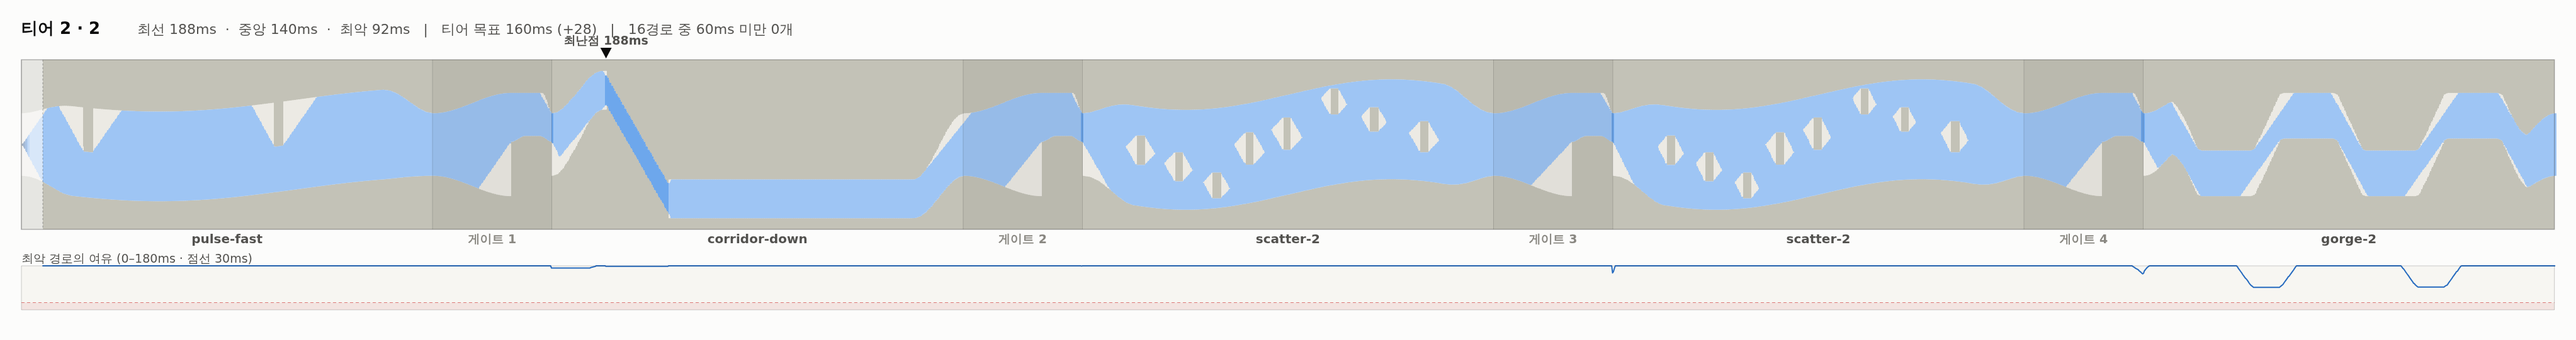
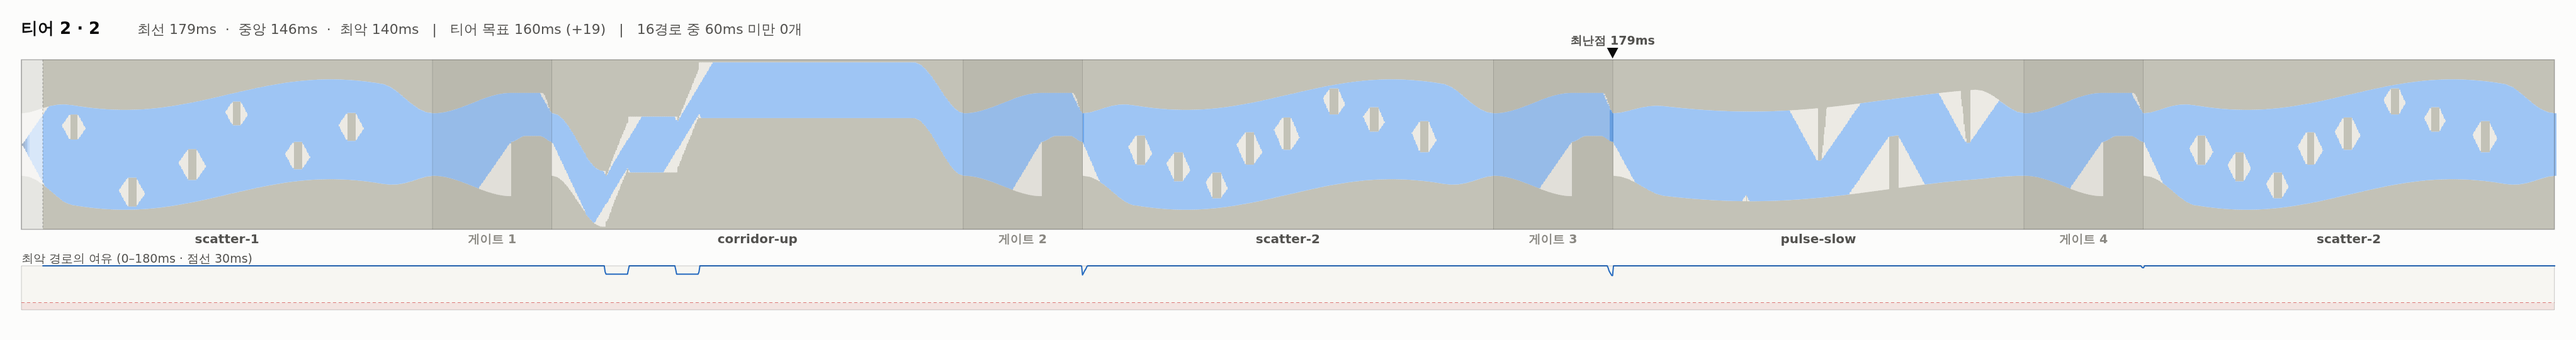
fix(wave-runner): 회랑을 끊어서 고친다 — 12개 섹터 전부가 모든 빌드에게 열렸다
0.5.3 의 `sector-fairness.ts` 가 남긴 마지막 빨간불이다. 회랑의 지속 경사 0.92 를
64단위 내리 달리면 그 기울기를 못 내는 기체의 뒤처짐이 통로 폭을 넘어, 조작과 무관하게
벽에 닿았다 — `corridor-up` 7개 · `corridor-down` 13개 빌드 봉쇄.

두 번 실패하고 고쳤다

- **경사를 낮추면 질문이 사라진다.** 0.92 → 0.5 로 낮추니 봉쇄는 0 이 됐지만 편향의
  유불리 뒤집힘이 사라졌다(하강 회랑인데 편향 + 가 +60ms 유리). 최소 여유도 224ms 로
  뛰어 "좁고 긴 통로" 성격까지 없어졌다. 되돌렸다
- **끊기만 하면 질문이 약해진다.** 세 토막 + 평탄 회복으로 봉쇄는 0 이 됐는데 하강
  회랑에서 편향 0 이 양쪽보다 유리해졌다(편− 189 · 편0 229 · 편+ 178). 토막이 짧아진
  만큼 경사가 하강 속도를 압박하지 못한 것이다
- **답은 끊고 나서 더 가파르게 하는 것이었다.** 두 토막 · 경사 1.3 · 폭 30 · 회복 55 에서
  편− 266 · 편0 254 · 편+ 185 로 뒤집힘이 제자리를 찾았다

  corridor-up    폭 22→30  경사 0.92→1.3  토막 1→2  봉쇄 7개→0   최소여유  2→69ms
  corridor-down  폭 20→30  경사 0.92→1.3  토막 1→2  봉쇄 13개→0  최소여유 19→62ms

  편향 뒤집힘이 +180/+160 → +158/+81 로 약해진 것은 대가다. 그전의 강한 수치는 상당
  부분 봉쇄에서 나온 것이라, 공정하게 만들면 줄어드는 것이 당연하다. 부호는 그대로다.

- 회복 구간은 리드인·꼬리와 같은 폭으로 넓힌다. 같은 폭으로 두면 치우친 기체가 평탄
  구간에서 벌을 받아 경사가 묻는 질문을 도로 상쇄한다

측정 방법에서 한 번 속을 뻔했다

도달 가능한 모든 빌드를 편향 부호로 묶어 평균을 비교하는 지표는 **교란된다** — 세 축의
합이 0 이라 편향 + 인 빌드는 속도가 낮고, 낮은 속도가 그 자체로 여유를 늘린다. 합이 0 인
조합 안에서 편향을 속도와 분리할 수 없다. 축을 격리하려면 합이 0 이 아닌 빌드로 재야
하고, `sector-probe.ts` 가 원래 그렇게 하고 있었다. 집계 지표를 믿었으면 정반대로
튜닝했을 것이다.

재큐레이션 결과

- 섹터 공정성 12개 **전부 통과**(회랑 2종 실패 → 0)
- 후보 시드 전 경로 통과(티어 3·4) 839/884 → **900/900**. 어떤 시드도 봉쇄된 경로가 없다
- ±2 곡선 199/185/151/135 → **196/181/158/132** (목표 200/180/150/130)
- ±3 곡선 194/159/156/131 → **183/169/154/129**, 티어 2↔3 간격 3ms → **15ms**
- 함정 0 · 코스 중복 0쌍 · 커버리지 12/12 · 네 티어 모두 완화 없음
[…]

diff --git a/projects/wave-runner/app/src/game/sectors.ts b/projects/wave-runner/app/src/game/sectors.ts
@@ -198,32 +198,48 @@ export interface CorridorSpec {
   grade: number;
   /** 경사 구간에서 오르내리는 총 높이 */
   rise: number;
+  /** 경사를 몇 토막으로 끊는가. 1 이면 한 번에 내려간다(0.5.3 이전) */
+  segments: number;
+  /** 토막 사이 평탄 회복 구간의 길이 */
+  recover: number;
 }
 
 /**
  * 회랑의 형상.
  *
- * **협곡과 같은 함정이 여기에도 있고, 아직 고치지 못했다.** 경사에서 뒤처지는 거리가
- * 통로 폭을 넘으면 조작과 무관하게 벽에 닿는데, `corridor-up` 은 7개 · `corridor-down`
- * 은 13개 빌드를 그렇게 봉쇄한다(`tests/verify/sector-fairness.ts`).
+ * **경사를 한 번에 내려가면 뒤처짐이 누적돼 통로 폭을 넘는다.** 0.5.3 이전의 회랑은
+ * 경사 0.92 를 64단위 내리 달려서, 그 기울기를 못 내는 기체가 조작과 무관하게 벽에
+ * 닿았다 — `corridor-up` 7개 · `corridor-down` 13개 빌드가 그렇게 봉쇄돼 있었다.
  *
- * 협곡처럼 파라미터로 풀리지 않는다. 경사를 낮추면 통과는 되지만 **편향의 유불리
- * 뒤집힘이 사라진다** — 하강 회랑인데 편향 + 가 유리해진다. 경사가 하강 속도를 실제로
- * 압박해야만 편향이 의미를 갖기 때문이다.
+ * 경사를 낮추는 것은 답이 아니다. 낮추면 통과는 되지만 **편향의 유불리 뒤집힘이
+ * 사라진다** — 경사가 하강 속도를 실제로 압박해야만 편향이 의미를 갖기 때문이다.
+ * 0.5 로 낮춰 보니 하강 회랑인데 편향 + 가 +60ms 유리해졌고, 최소 여유가 224ms 로
+ * 뛰면서 "좁고 긴 통로" 라는 성격도 함께 사라졌다.
  *
- * 게다가 두 방향이 대칭이 아니다. 세 축의 합이 0 이라 (각도 −3, 편향 −3)은 존재하지
- * 않으므로 **상승 한계의 최악은 0.62**인데, (각도 −3, 편향 +3)은 존재하므로 **하강
- * 한계의 최악은 0.397**이다. 하강 회랑이 감당해야 하는 폭이 훨씬 크다.
+ * 그래서 **경사를 짧게 끊고 사이에 평탄한 회복 구간을 둔다.** 토막 하나에서 벌어지는
+ * 거리는 `(경사 − 기체 dy/dx) × 토막 길이` 로 토막 수에 반비례하고, 평탄 구간에서
+ * 그만큼을 도로 메운다. **압박은 남고 누적만 사라진다.**
  *
- * 답은 협곡의 수법이다 — 경사를 유지한 채 **짧게 끊고 사이에 평탄한 회복 구간**을 두면
- * 뒤처짐이 누적되지 않는다. 계산상 0.92 경사를 두 토막(각 29단위)으로 끊고 50단위
- * 평탄을 끼우면 토막당 뒤처짐이 16.5 로 폭 22 의 여유(18.8) 안에 든다. 형상 생성을
- * 다시 써야 하므로 별도 작업으로 둔다.
+ * 끊고 나면 경사를 오히려 **더 가파르게**(0.92 → 1.3) 해야 한다. 토막이 짧아진 만큼
+ * 기울기를 올리지 않으면 하강 속도를 압박하지 못해, 하강 회랑인데 편향 0 이 편향 ±
+ * 양쪽보다 유리해진다(실측: 편− 189 · 편0 229 · 편+ 178). 지금은 편− 266 · 편0 254 ·
+ * 편+ 185 로 뒤집힘이 제자리를 찾았다.
+ *
+ * 회복 구간은 덤이 아니다 — 중립이 없는 좁은 평탄 통로는 짧은 탭 연타로 직진을
+ * 합성해야 유지되므로, 회랑이 본래 묻던 기술을 한 번 더 묻는다.
+ *
+ * 두 방향은 대칭이 아니다. 세 축의 합이 0 이라 (각도 −3, 편향 −3)은 존재하지 않으므로
+ * **상승 한계의 최악은 0.62** 인데, (각도 −3, 편향 +3)은 존재하므로 **하강 한계의 최악은
+ * 0.397** 이다. 하강 회랑이 감당해야 하는 뒤처짐이 훨씬 크다.
  */
 export const CORRIDOR_SPEC: Record<number, CorridorSpec> = {
-  1: { width: 22, grade: 0.92, rise: 64 },
-  2: { width: 20, grade: 0.92, rise: 64 },
-  3: { width: 16, grade: 0.92, rise: 64 }
+  // 오르는 회랑과 내려가는 회랑은 같은 형상을 쓴다. 난이도 번호가 드리프트에 용접돼
+  // 있어(1=상승 · 2=하강 · 3=평탄) 여기서 난이도를 가를 자리가 사실상 없다 — 회랑의
+  // 난이도 표기가 명목뿐인 것은 별도의 알려진 문제다.
+  1: { width: 30, grade: 1.3, rise: 64, segments: 2, recover: 55 },
+  2: { width: 30, grade: 1.3, rise: 64, segments: 2, recover: 55 },
+  // 평탄한 회랑에는 경사가 없다. 좁은 관을 탭 연타로 유지하는 것 자체가 시험이다.
+  3: { width: 16, grade: 1.3, rise: 0, segments: 1, recover: 0 }
 };
 
 export function makeCorridor(
@@ -231,19 +247,38 @@ export function makeCorridor(
   drift: "up" | "down" | "flat",
   spec: CorridorSpec = CORRIDOR_SPEC[difficulty]
 ): Sector {
-  const { width, grade, rise } = spec;
+  const { width, grade, rise, segments, recover } = spec;
   const span = drift === "flat" ? 0 : rise * (drift === "up" ? -1 : 1);
   const clamped = Math.max(-64, Math.min(64, span));
   const mid = drift === "flat" ? 50 : 50 - clamped / 2;
-  const useLen = drift === "flat" ? SECTOR_LEN : Math.abs(clamped) / grade;
-  const raw =
-    drift === "flat"
-      ? run(0, SECTOR_LEN, flat(mid), flat(width), 7)
-      : [
-          ...run(0, 60, flat(mid), flat(width + 6), 6),
-          ...run(60, useLen, lerp(mid, mid + clamped), flat(width), 4),
-          ...run(60 + useLen, Math.max(20, SECTOR_LEN - 60 - useLen), flat(mid + clamped), flat(width + 6), 6)
-        ];
+
+  let raw: CorridorNode[];
+  if (drift === "flat") {
+    raw = run(0, SECTOR_LEN, flat(mid), flat(width), 7);
+  } else {
+    const legRise = clamped / segments;
+    const legLen = Math.abs(legRise) / grade;
+    const LEAD = 60;
+    raw = [...run(0, LEAD, flat(mid), flat(width + 6), 6)];
+    let x = LEAD;
+    let y = mid;
+    for (let i = 0; i < segments; i += 1) {
+      raw.push(...run(x, legLen, lerp(y, y + legRise), flat(width), 4));
+      x += legLen;
+      y += legRise;
+      // 마지막 토막 뒤에는 회복 구간을 두지 않는다 — 남은 자리가 곧 꼬리다.
+      //
+      // 회복 구간은 리드인·꼬리와 같은 폭으로 넓힌다. 이 구간의 일은 **뒤처짐을
+      // 메우게 해 주는 것**이지 새 시험을 내는 것이 아니다. 같은 폭으로 두면 한쪽으로
+      // 치우친 기체가 평탄 구간에서 벌을 받아, 경사가 묻는 편향의 질문을 도로 상쇄한다
+      // (실측: 하강 회랑에서 편향 0 이 편향 ± 양쪽보다 유리해졌다).
+      if (i < segments - 1) {
+        raw.push(...run(x, recover, flat(y), flat(width + 6), 5));
+        x += recover;
+      }
+    }
+    raw.push(...run(x, Math.max(20, SECTOR_LEN - x), flat(y), flat(width + 6), 6));
+  }
   const nodes = withCuffs(raw);
   return {
     id: `corridor-${drift}`,

diff --git a/projects/wave-runner/changelog.md b/projects/wave-runner/changelog.md
@@ -241,9 +241,9 @@ Endless 코스 재현성 수정.
 
 **시드가 다시 전부 바뀌었으므로 저장된 스테이지 최고 기록은 무효다.**
 
-알려진 문제
+알려진 문제 (0.5.4 에서 해소)
 
-- **회랑 둘에 같은 결함이 남아 있다.** 새로 만든 `tests/verify/sector-fairness.ts` 가
+- ~~**회랑 둘에 같은 결함이 남아 있다.**~~ 새로 만든 `tests/verify/sector-fairness.ts` 가
   `corridor-up` 7개 · `corridor-down` 13개 빌드 봉쇄를 잡아냈다. 지속 경사 0.92 가 같은
   이유로 낮은 각도 기체를 막는다. **협곡처럼 파라미터로 풀리지 않는다** — 경사를 낮추면
   통과는 되지만 편향의 유불리 뒤집힘이 사라진다(하강 회랑인데 편향 + 가 유리해진다).
@@ -260,3 +260,54 @@ Endless 코스 재현성 수정.
 - `sector-fairness.ts` — 12개 섹터 × 도달 가능한 모든 빌드로 단독 주행. 이 결함은 **코스
   단위 검증에 잡히지 않았다** — 문제의 섹터를 쓰는 시드가 큐레이션에서 조용히 탈락했을
   뿐이라 `stage-paths.ts` 는 계속 ✓ 였고 섹터는 죽어 있었다. 섹터는 섹터 단위로 물어야 한다
+
+## 0.5.4 — 2026-09-16
+
+회랑을 다시 만들었다. 이제 **12개 섹터 전부가 모든 빌드에게 통과 가능**하고, 후보 시드의
+**900/900 이 전 경로 통과**한다.
+
+- **회랑도 막는 섹터였다.** 지속 경사 0.92 를 64단위 내리 달려서, 그 기울기를 못 내는
+  기체가 조작과 무관하게 벽에 닿았다 — `corridor-up` 7개 · `corridor-down` 13개 봉쇄.
+  0.5.3 의 `sector-fairness.ts` 가 잡아낸 그 문제다
+- **경사를 낮추는 것은 답이 아니었다.** 0.5 로 낮추니 통과는 되지만 **편향의 유불리
+  뒤집힘이 사라졌다** — 하강 회랑인데 편향 + 가 유리해졌고(+60ms) 최소 여유가 224ms 로
+  뛰면서 "좁고 긴 통로" 성격도 함께 사라졌다
+- **경사를 짧게 끊고 사이에 평탄한 회복 구간을 둔다.** 토막 하나에서 벌어지는 거리는
+  토막 수에 반비례하고 평탄 구간이 그만큼을 도로 메운다. 압박은 남고 누적만 사라진다
+- **끊은 다음에는 경사를 오히려 더 가파르게 해야 한다(0.92 → 1.3).** 토막이 짧아진 만큼
+  기울기를 올리지 않으면 하강 속도를 압박하지 못해, 하강 회랑인데 편향 0 이 양쪽보다
+  유리해진다. 이걸 놓치면 "통과는 되는데 아무것도 묻지 않는" 섹터가 된다
+
+  | | 폭 | 경사 | 토막 | 회복 | 통과 불가 | 최소 여유 | 편향 뒤집힘 |
+  |---|---|---|---|---|---|---|---|
+  | corridor-up | 22→**30** | 0.92→**1.3** | 1→**2** | —→**55** | 7개 → **0** | 2 → **69ms** | +180 → **+158ms** |
+  | corridor-down | 20→**30** | 0.92→**1.3** | 1→**2** | —→**55** | 13개 → **0** | 19 → **62ms** | +160 → **+81ms** |
+  | corridor-flat | 16 | — | — | — | 0 | 73ms | — |
+
+  편향 뒤집힘이 약해진 것은 대가다. 그전의 강한 수치는 상당 부분 **봉쇄에서 나온 것**이라
+  공정하게 만들면 줄어드는 것이 당연하다. 부호는 그대로다 — 상승은 편향 +, 하강은 편향 −.
+
+- **회복 구간은 리드인·꼬리와 같은 폭으로 넓힌다.** 같은 폭으로 두면 한쪽으로 치우친
+  기체가 평탄 구간에서 벌을 받아 경사가 묻는 질문을 도로 상쇄한다
+
+재큐레이션 결과
+
+| 지표 | 0.5.3 | 0.5.4 |
+|---|---|---|
+| 섹터 공정성(12개 × 모든 빌드) | 회랑 2종 실패 | **전부 통과** |
+| 후보 시드 전 경로 통과(티어 3·4) | 839 / 884 of 900 | **900 / 900** |
+| ±2 곡선 | 199/185/151/135 | **196/181/158/132** (목표 200/180/150/130) |
+| ±3 곡선 | 194/159/156/131 | **183/169/154/129** |
+| ±3 티어 2↔3 간격 | 3ms | **15ms** |
+| 함정 · 코스 중복 · 커버리지 | 0 · 0쌍 · 12/12 | 0 · 0쌍 · 12/12 |
+
+±3 에서 티어 2 와 3 이 3ms 차이로 붙어 있던 것이 15ms 로 벌어졌다 — 회랑이 공정해지면서
+큐레이션이 고를 수 있는 후보가 늘어난 결과다.
+
+**시드가 다시 전부 바뀌었으므로 저장된 스테이지 최고 기록은 무효다.**
+
+남은 것
+
+- **회랑의 난이도 표기가 명목뿐이다.** 번호가 드리프트에 용접돼 있어(1=상승 · 2=하강 ·
+  3=평탄) 상승과 하강이 같은 형상을 쓴다. 드리프트와 난이도를 떼어내면 회랑 3종이
+  9종이 되고, 티어마다 다른 편향 질문을 물을 수 있다

diff --git a/projects/wave-runner/notes/course-difficulty/2026-09-16-4.md b/projects/wave-runner/notes/course-difficulty/2026-09-16-4.md
@@ -1,0 +1,62 @@
+# 회랑 재설계 — 마지막 막는 섹터
+
+0.5.3 이 협곡을 고치고 만든 `sector-fairness.ts` 가 회랑 둘을 빨간불로 남겼다. 그것을 고쳤다.
+
+## 결론
+
+**이제 12개 섹터 전부가 도달 가능한 모든 빌드에게 통과 가능하다.** 그리고 후보 시드의
+**900/900 이 16경로 전부 통과**한다 — 어떤 시드도 봉쇄된 경로를 갖지 않는다.
+
+## 두 번의 실패를 거쳤다
+
+**① 경사를 낮추면 질문이 사라진다.** 0.92 → 0.5 로 낮추니 봉쇄는 0 이 됐지만 **편향의
+유불리 뒤집힘이 사라졌다** — 하강 회랑인데 편향 + 가 +60ms 유리해졌다. 최소 여유도
+224ms 로 뛰어 "좁고 긴 통로" 라는 성격까지 함께 없어졌다. 경사가 하강 속도를 실제로
+압박해야만 편향이 의미를 갖는다. 되돌렸다.
+
+**② 끊기만 하면 질문이 약해진다.** 경사를 세 토막으로 끊고 평탄한 회복 구간을 끼우니
+봉쇄는 0 이 됐는데, 하강 회랑에서 **편향 0 이 편향 ± 양쪽보다 유리**해졌다
+(편− 189 · 편0 229 · 편+ 178). 토막이 짧아진 만큼 경사가 하강 속도를 압박하지 못한 것이다.
+
+**답은 끊고 나서 더 가파르게 하는 것이었다.** 두 토막 · 경사 1.3 · 폭 30 · 회복 55 에서
+편− 266 · 편0 254 · 편+ 185 로 뒤집힘이 제자리를 찾았다.
+
+| | 폭 | 경사 | 토막 | 회복 | 통과 불가 | 최소 여유 | 편향 뒤집힘 |
+|---|---|---|---|---|---|---|---|
+| corridor-up | 22→30 | 0.92→1.3 | 1→2 | —→55 | 7 → **0** | 2 → **69ms** | +180 → +158ms |
+| corridor-down | 20→30 | 0.92→1.3 | 1→2 | —→55 | 13 → **0** | 19 → **62ms** | +160 → **+81ms** |
+
+편향 뒤집힘이 약해진 것은 대가다. 그전의 강한 수치는 상당 부분 **봉쇄에서 나온 것**이라,
+공정하게 만들면 줄어드는 것이 당연하다. 부호는 그대로다.
+
+## 측정 방법에서 한 번 속을 뻔했다
+
+처음에는 도달 가능한 모든 빌드를 편향 부호로 묶어 평균 여유를 비교했다. 그 지표는
+하강 회랑에서도 편향 + 가 유리하다고 답했다 — **교란이었다.** 세 축의 합이 0 이므로
+편향 + 인 빌드는 각도·속도가 낮고, 낮은 속도는 그 자체로 여유를 늘린다. 합이 0 인
+조합 안에서는 편향을 속도와 분리할 수 없다.
+
+축을 격리하려면 합이 0 이 아닌 빌드(각도 0 · 속도 0 · 편향 ±2)로 재야 한다.
+`sector-probe.ts` 가 원래 그렇게 하고 있었고, 그 값이 맞았다. 집계 지표를 믿고
+파라미터를 고쳤으면 정반대 방향으로 튜닝했을 것이다.
+
+## 재큐레이션 결과
+
+| 지표 | 0.5.3 | 0.5.4 |
+|---|---|---|
+| 섹터 공정성 | 회랑 2종 실패 | **12개 전부 통과** |
+| 후보 시드 전 경로 통과(티어 3·4) | 839 / 884 of 900 | **900 / 900** |
+| ±2 곡선 | 199/185/151/135 | **196/181/158/132** |
+| ±3 곡선 | 194/159/156/131 | **183/169/154/129** |
+| ±3 티어 2↔3 간격 | 3ms | **15ms** |
+
+±3 에서 티어 2 와 3 이 붙어 있던 문제가 덤으로 풀렸다. 회랑이 공정해지면서 큐레이션이
+고를 수 있는 후보가 늘었기 때문이다 — **공정성을 고치면 난이도 조절의 자유도가 늘어난다**
+는 것이 이번 세 라운드(협곡 · 회랑 · 사다리)에서 반복해 나온 결론이다.
+
+## 남은 것
+
+**회랑의 난이도 표기가 명목뿐이다.** 번호가 드리프트에 용접돼 있어(1=상승 · 2=하강 ·
+3=평탄) 상승과 하강이 같은 형상을 쓴다. 떼어내면 회랑 3종이 9종이 되고, 티어마다 다른
+편향 질문을 물을 수 있다. 섹터 풀이 12개에서 18개로 늘어나므로 큐레이션의 다양성 여지도
+함께 커진다.

diff --git a/projects/wave-runner/eval.md b/projects/wave-runner/eval.md
@@ -24,7 +24,7 @@ pnpm exec tsx projects/wave-runner/tests/verify/curate-stages.ts        # 스테
 | 타입·빌드·런처 전체 빌드 | 통과 |
 | 선행 가시 1.2초 | 360×640에서 1.34초, 세로 가시 100% |
 | **솔버 신뢰도** | 84개 조합에서 오토파일럿과 모순 0. 통과 불가 사례를 실제로 잡아냄 |
-| **섹터 단독 주행** | 섹터 12개 × 도달 가능한 모든 빌드(합 0, ±2 19개 · ±3 37개) 단독 주행. 통과 불가 0, 최소 여유 50ms 이상 (`tests/verify/sector-fairness.ts`) |
+| **섹터 단독 주행** | 섹터 12개 × 도달 가능한 모든 빌드(합 0, ±2 19개 · ±3 37개) 단독 주행. **12개 전부 통과 불가 0**, 최소 여유 56~307ms (`tests/verify/sector-fairness.ts`) |
 | **생성기 겨냥** | 4유형 × 난이도 4단계 전부 통과 가능. 목표 폭 30→9에 대해 실측 여유 354ms→97ms |
 | **축이 양날인가** | 각도·속도·편향 3축 모두 섹터 유형에 따라 부호가 뒤집힘 |
 | **전 경로 통과 가능성** | 12개 스테이지 × 16경로 — 94~100% 통과, 최선 경로 여유 122~198ms |
@@ -73,8 +73,9 @@ pnpm exec tsx projects/wave-runner/tests/verify/curate-stages.ts        # 스테
 - **런 초반 3섹터는 생성되지 않는다.** 공장에 줄 시간이 없는 자리라 수제 섹터로 **고정했다**(0.3.1). 재현성은 그래서 성립하지만 첫 30초의 다양성은 수제 12개 안에서만 나온다.
 - **Endless 도입부 3섹터 고정.** 재현성을 위해 그 자리를 수제 섹터로 못박은 대가다. 난이도 1.0~1.26 구간에는 유형별 후보가 하나뿐이라 변주가 유형 순환에서만 온다.
 - **1단계 중단 판정.** 여전히 미수행이다.
-- **±3 에서 티어 2 와 티어 3 이 사실상 같다**(159ms 대 156ms). 역전은 아니지만 해금하면
-  두 티어가 구분되지 않는다. 드리프트 제한이 ±2 목표만 맞추기 때문이다.
+- **회랑의 난이도 표기가 명목뿐이다.** 번호가 드리프트에 용접돼 있어(1=상승 · 2=하강 ·
+  3=평탄) 상승과 하강이 같은 형상을 쓴다. 떼어내면 회랑 3종이 9종이 되고 티어마다 다른
+  편향 질문을 물을 수 있다.
 - **게임 전체가 관대해졌다.** 0.5.2 에서 사다리를 올린 대가다. 티어 4 는 지속 길이로 메웠지만
   티어 1~3 은 여유가 그대로 넓어졌다 — 사람이 실제로 어디서 막히는지(`meta.attempts`)를 보고
   다시 조여야 한다.

diff --git a/projects/wave-runner/spec.md b/projects/wave-runner/spec.md
@@ -52,11 +52,13 @@
 | 유형 | 형상 | 축을 가르는 방식 |
 |---|---|---|
 | **협곡** | 가파른 계단. 램프 기울기 1.05~1.35, 계단 3·5·7 | 램프에서 뒤처진 만큼을 통로 폭이 흡수한다 → **각도 +** |
-| **회랑** | 좁고 긴 통로. 평탄 / 가파른 상승 / 가파른 하강 | 평탄은 진폭이 커지는 **각도 −**, 상승은 **편향 +**, 하강은 **편향 −** |
+| **회랑** | 평탄한 좁은 관, 또는 경사를 두 토막으로 끊고 사이에 평탄한 회복 구간 | 평탄은 진폭이 커지는 **각도 −**, 상승은 **편향 +**, 하강은 **편향 −** |
 | **산개** | 넓은 통로에 흩뿌린 장애물 | 경로를 엮을 시간이 필요해 **속도 −** |
 | **맥동** | 주기 개폐 셔터. 위상은 목표 속도로 역산 | 도착 위상이 통과를 가른다 → **속도가 양날** |
 
 **협곡이 각도를 묻는 방식은 "따라잡지 못하면 죽는다" 가 아니라 "뒤처진 만큼을 폭이 흡수한다" 이다.** 램프 하나에서 벌어지는 거리는 `(램프 기울기 − 기체 dy/dx) × 램프 길이` 이고, 이것이 통로의 여유 폭보다 작으면 통과한다. 그래서 램프를 기체가 낼 수 있는 값보다 가파르게 잡아도 되고, **낮은 각도는 벌을 받되 죽지 않는다.** 0.5.3 이전에는 이 관계를 계산에 넣지 않아 `gorge-3` 이 도달 가능한 19개 빌드 중 5개를 원천 봉쇄했다.
+
+**회랑의 경사는 끊겨 있다.** 한 번에 내려가면 경사를 못 따라가는 기체의 뒤처짐이 누적돼 통로 폭을 넘고, 그러면 조작과 무관하게 죽는다(0.5.3 이전이 그랬다 — 도달 가능한 빌드 중 상승 7개·하강 13개가 봉쇄돼 있었다). 짧게 끊고 평탄한 회복 구간을 끼우면 뒤처짐이 누적되지 않으므로 경사를 오히려 **더 가파르게** 할 수 있고, 그래야 편향의 유불리 뒤집힘이 유지된다.
 
 **회랑이 설계의 회수 지점이다.** 중립이 없는 좁은 통로는 짧은 탭 연타로 사실상의 직진을 합성해야 유지된다 — 원작에서 플레이어가 스스로 발명한 기술이 여기서는 의도된 해법이다. 메커니즘은 한 줄도 추가하지 않았다.
 
